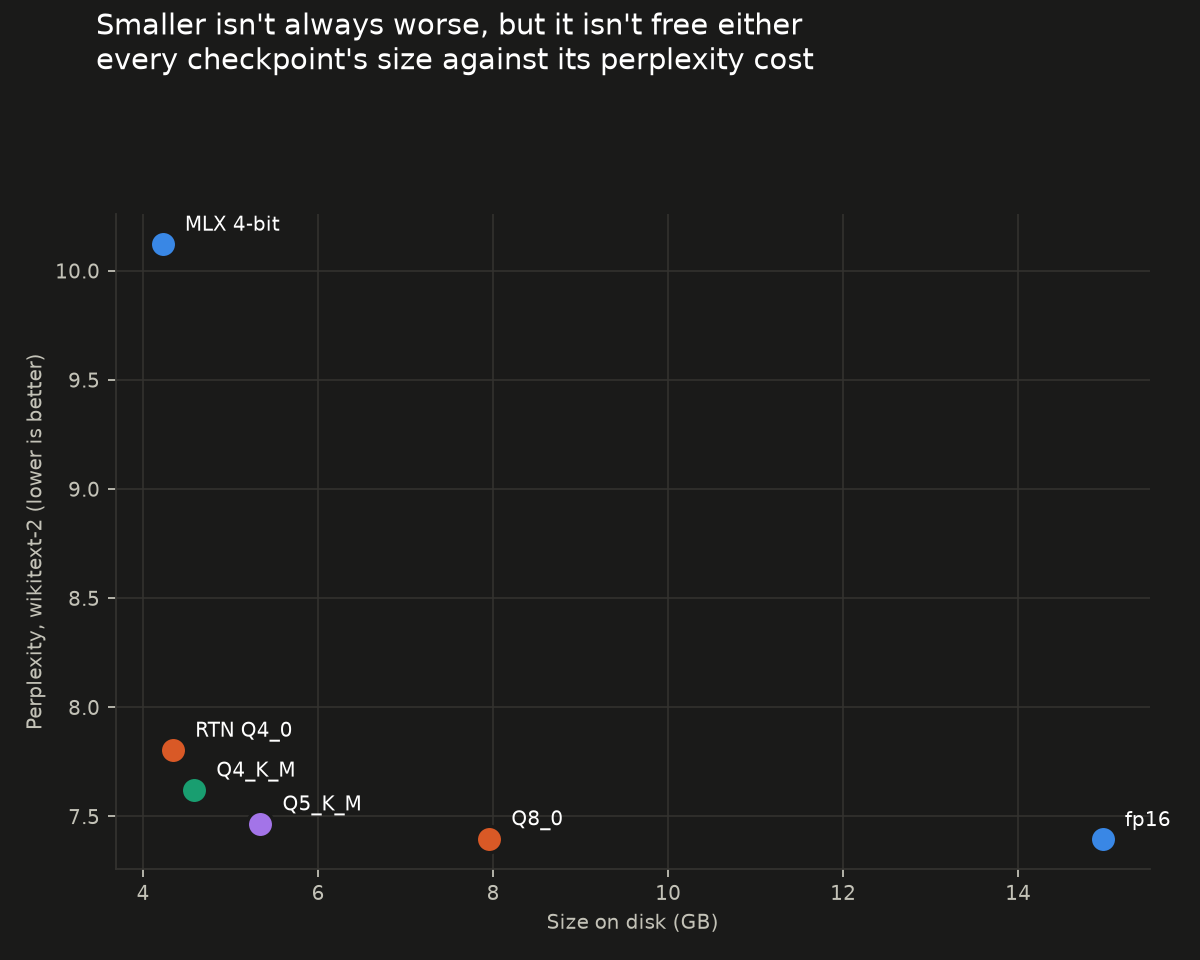
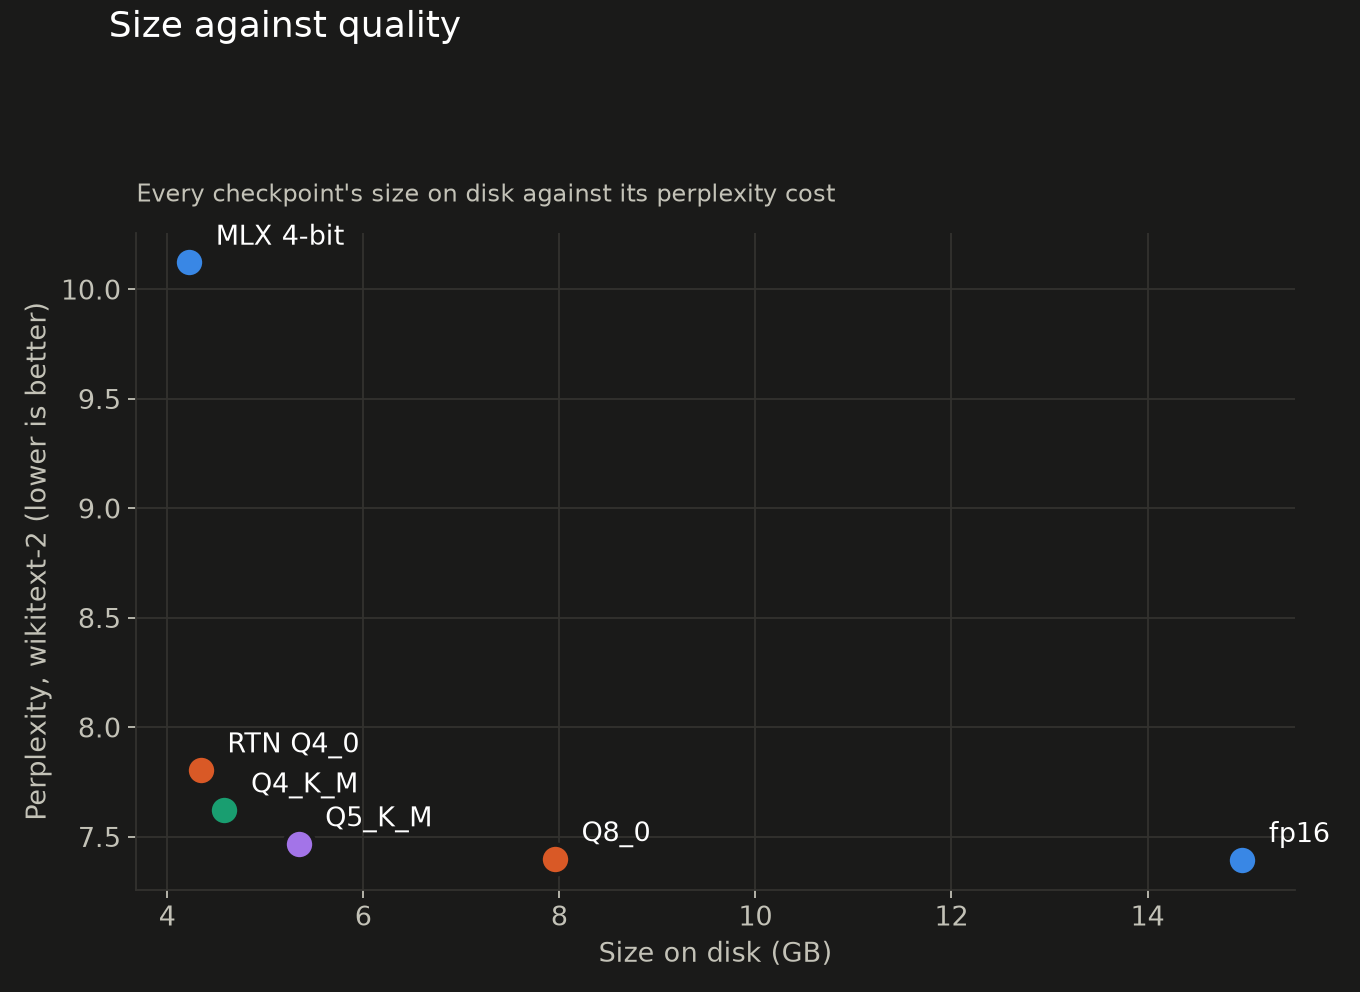
refactor(quantization): split the headline chart
The 2x2 grid was too cramped to read labels on. One chart each for
size, perplexity, MMLU accuracy, and generation speed, larger and
with bigger type.

diff --git a/quantization/quant_plot.py b/quantization/quant_plot.py
@@ -1,10 +1,12 @@
 """Charts for results/results.json: every quantized checkpoint against fp16.
 
-One multi-panel figure per the repo's convention (see speculative-decoding's
-spec_plot.py): light and dark rendered separately, not one image inverted.
+One chart per metric rather than one cramped grid - each gets its own
+figure, sized wide enough that six checkpoint labels sit flat without
+rotating or overlapping. Light and dark rendered separately, not one image
+inverted, per the repo's convention (see speculative-decoding's spec_plot.py).
 
 Reads results.json generically by checkpoint label, so this stays useful as
-more methods (HQQ, NF4, AWQ, GPTQ) get added later - a panel just silently
+more methods (HQQ, NF4, AWQ, GPTQ) get added later - a chart just silently
 skips any checkpoint missing that particular metric rather than erroring,
 since methods finish their benchmark passes at different times.
 """
@@ -31,11 +33,11 @@ THEMES = {
 LABEL_ORDER = ["fp16", "rtn-q4_0", "q4_k_m", "q5_k_m", "q8_0", "mlx-q4"]
 DISPLAY_NAME = {
     "fp16": "fp16",
-    "rtn-q4_0": "RTN\nQ4_0",
+    "rtn-q4_0": "RTN Q4_0",
     "q4_k_m": "Q4_K_M",
     "q5_k_m": "Q5_K_M",
     "q8_0": "Q8_0",
-    "mlx-q4": "MLX\n4-bit",
+    "mlx-q4": "MLX 4-bit",
 }
 
 
@@ -47,66 +49,69 @@ def ordered_labels(res):
 
 def style(ax, t):
     ax.set_facecolor(t["surface"])
-    ax.grid(True, axis="y", color=t["grid"], linewidth=0.8, alpha=0.9)
+    ax.grid(True, axis="y", color=t["grid"], linewidth=0.9, alpha=0.9)
     ax.set_axisbelow(True)
     for side in ("top", "right"):
         ax.spines[side].set_visible(False)
     for side in ("left", "bottom"):
         ax.spines[side].set_color(t["grid"])
-    ax.tick_params(colors=t["muted"], labelsize=9)
+    ax.tick_params(colors=t["muted"], labelsize=12)
 
 
-def bars(ax, t, labels, values, colour, fmt, ylabel):
+def bar_chart(res, theme, metric_key, extract, colour_key, fmt, title, subtitle, filename):
+    t = THEMES[theme]
+    labels = [l for l in ordered_labels(res) if metric_key in res[l]]
+    values = [extract(res[l]) for l in labels]
+
+    fig, ax = plt.subplots(figsize=(9.5, 5.6), facecolor=t["surface"])
+    style(ax, t)
     xs = range(len(labels))
-    ax.bar(list(xs), values, width=0.6, color=colour, edgecolor=t["surface"], linewidth=1.5)
+    ax.bar(list(xs), values, width=0.55, color=t[colour_key],
+           edgecolor=t["surface"], linewidth=2)
     ax.set_xticks(list(xs))
-    ax.set_xticklabels([DISPLAY_NAME.get(l, l) for l in labels], color=t["ink"], fontsize=8.5)
-    ax.set_ylabel(ylabel, color=t["muted"], fontsize=9)
+    ax.set_xticklabels([DISPLAY_NAME.get(l, l) for l in labels],
+                        color=t["ink"], fontsize=13)
+    ax.set_ylim(0, max(values) * 1.18)
     for x, y in zip(xs, values):
         ax.annotate(fmt.format(y), (x, y), textcoords="offset points",
-                    xytext=(0, 4), ha="center", color=t["ink"], fontsize=8.5)
+                    xytext=(0, 8), ha="center", color=t["ink"],
+                    fontsize=13, fontweight="bold")
 
-
-def headline(res, theme):
-    t = THEMES[theme]
-    labels = ordered_labels(res)
-
-    size_labels = [l for l in labels if "size_gb" in res[l]]
-    ppl_labels = [l for l in labels if "perplexity" in res[l]]
-    mmlu_labels = [l for l in labels if "mmlu" in res[l]]
-    tg_labels = [l for l in labels if "throughput" in res[l]]
-
-    fig, axes = plt.subplots(2, 2, figsize=(10, 7.5), facecolor=t["surface"])
-    (ax_size, ax_ppl), (ax_mmlu, ax_tg) = axes
-
-    if size_labels:
-        style(ax_size, t)
-        bars(ax_size, t, size_labels, [res[l]["size_gb"] for l in size_labels],
-             t["s1"], "{:.1f} GB", "Size on disk")
-
-    if ppl_labels:
-        style(ax_ppl, t)
-        bars(ax_ppl, t, ppl_labels, [res[l]["perplexity"]["ppl"] for l in ppl_labels],
-             t["s2"], "{:.2f}", "Perplexity, wikitext-2 (lower is better)")
-
-    if mmlu_labels:
-        style(ax_mmlu, t)
-        bars(ax_mmlu, t, mmlu_labels, [res[l]["mmlu"]["accuracy"] * 100 for l in mmlu_labels],
-             t["s3"], "{:.0f}%", "MMLU accuracy, 50q subset")
-
-    if tg_labels:
-        style(ax_tg, t)
-        bars(ax_tg, t, tg_labels, [res[l]["throughput"]["tg_tokens_per_sec"] for l in tg_labels],
-             t["s4"], "{:.1f}", "Generation speed (tokens/sec)")
-
-    fig.suptitle("Post-training quantization: Llama 3.1 8B Instruct\n"
-                 "size, quality, and speed against the fp16 baseline",
-                 color=t["ink"], fontsize=13, ha="left", x=0.06, y=0.99)
-    fig.tight_layout(rect=[0, 0, 1, 0.93])
-    p = OUT / f"headline_{theme}.png"
+    fig.suptitle(title, color=t["ink"], fontsize=16, ha="left", x=0.07, y=0.99)
+    ax.set_title(subtitle, color=t["muted"], fontsize=11, loc="left", pad=14)
+    fig.tight_layout(rect=[0, 0, 1, 0.90])
+    p = OUT / f"{filename}_{theme}.png"
     fig.savefig(p, dpi=160, facecolor=t["surface"])
     plt.close(fig)
     return p
+
+
+def size_chart(res, theme):
+    return bar_chart(res, theme, "size_gb", lambda r: r["size_gb"], "s1",
+                      "{:.1f} GB", "Size on disk",
+                      "Llama 3.1 8B Instruct, each checkpoint against the fp16 baseline",
+                      "size")
+
+
+def perplexity_chart(res, theme):
+    return bar_chart(res, theme, "perplexity", lambda r: r["perplexity"]["ppl"], "s2",
+                      "{:.2f}", "Perplexity, wikitext-2",
+                      "Lower is better. Full test split, same windowing across every checkpoint",
+                      "perplexity")
+
+
+def mmlu_chart(res, theme):
+    return bar_chart(res, theme, "mmlu", lambda r: r["mmlu"]["accuracy"] * 100, "s3",
+                      "{:.0f}%", "MMLU accuracy",
+                      "Fixed 50-question subset, identical questions for every checkpoint",
+                      "mmlu")
+
+
+def throughput_chart(res, theme):
+    return bar_chart(res, theme, "throughput", lambda r: r["throughput"]["tg_tokens_per_sec"], "s4",
+                      "{:.1f} t/s", "Generation speed",
+                      "Tokens/sec, decode only (tg128), median of repeated runs",
+                      "throughput")
 
 
 def tradeoff(res, theme):
@@ -114,25 +119,25 @@ def tradeoff(res, theme):
     t = THEMES[theme]
     labels = [l for l in ordered_labels(res) if "size_gb" in res[l] and "perplexity" in res[l]]
 
-    fig, ax = plt.subplots(figsize=(7.5, 6), facecolor=t["surface"])
+    fig, ax = plt.subplots(figsize=(8.5, 6.2), facecolor=t["surface"])
     style(ax, t)
-    ax.grid(True, axis="both", color=t["grid"], linewidth=0.8, alpha=0.9)
+    ax.grid(True, axis="both", color=t["grid"], linewidth=0.9, alpha=0.9)
 
     colours = [t["s1"], t["s2"], t["s3"], t["s4"], t["s2"], t["s1"]]
     for i, l in enumerate(labels):
         x = res[l]["size_gb"]
         y = res[l]["perplexity"]["ppl"]
-        ax.scatter(x, y, s=140, color=colours[i % len(colours)],
-                   edgecolor=t["surface"], linewidth=1.5, zorder=3)
-        ax.annotate(DISPLAY_NAME.get(l, l).replace("\n", " "), (x, y),
-                    textcoords="offset points", xytext=(10, 6),
-                    color=t["ink"], fontsize=9)
+        ax.scatter(x, y, s=180, color=colours[i % len(colours)],
+                   edgecolor=t["surface"], linewidth=2, zorder=3)
+        ax.annotate(DISPLAY_NAME.get(l, l), (x, y),
+                    textcoords="offset points", xytext=(12, 8),
+                    color=t["ink"], fontsize=12)
 
-    ax.set_xlabel("Size on disk (GB)", color=t["muted"], fontsize=9)
-    ax.set_ylabel("Perplexity, wikitext-2 (lower is better)", color=t["muted"], fontsize=9)
-    fig.suptitle("Smaller isn't always worse, but it isn't free either\n"
-                 "every checkpoint's size against its perplexity cost",
-                 color=t["ink"], fontsize=13, ha="left", x=0.08, y=0.99)
+    ax.set_xlabel("Size on disk (GB)", color=t["muted"], fontsize=12)
+    ax.set_ylabel("Perplexity, wikitext-2 (lower is better)", color=t["muted"], fontsize=12)
+    fig.suptitle("Size against quality", color=t["ink"], fontsize=16, ha="left", x=0.08, y=0.99)
+    ax.set_title("Every checkpoint's size on disk against its perplexity cost",
+                 color=t["muted"], fontsize=11, loc="left", pad=14)
     fig.tight_layout(rect=[0, 0, 1, 0.90])
     p = OUT / f"tradeoff_{theme}.png"
     fig.savefig(p, dpi=160, facecolor=t["surface"])
@@ -163,5 +168,5 @@ if __name__ == "__main__":
         results_raw[label]["size_gb"] = size_bytes / 1024**3
 
     for theme in THEMES:
-        print(headline(results_raw, theme))
-        print(tradeoff(results_raw, theme))
+        for fn in (size_chart, perplexity_chart, mmlu_chart, throughput_chart, tradeoff):
+            print(fn(results_raw, theme))
